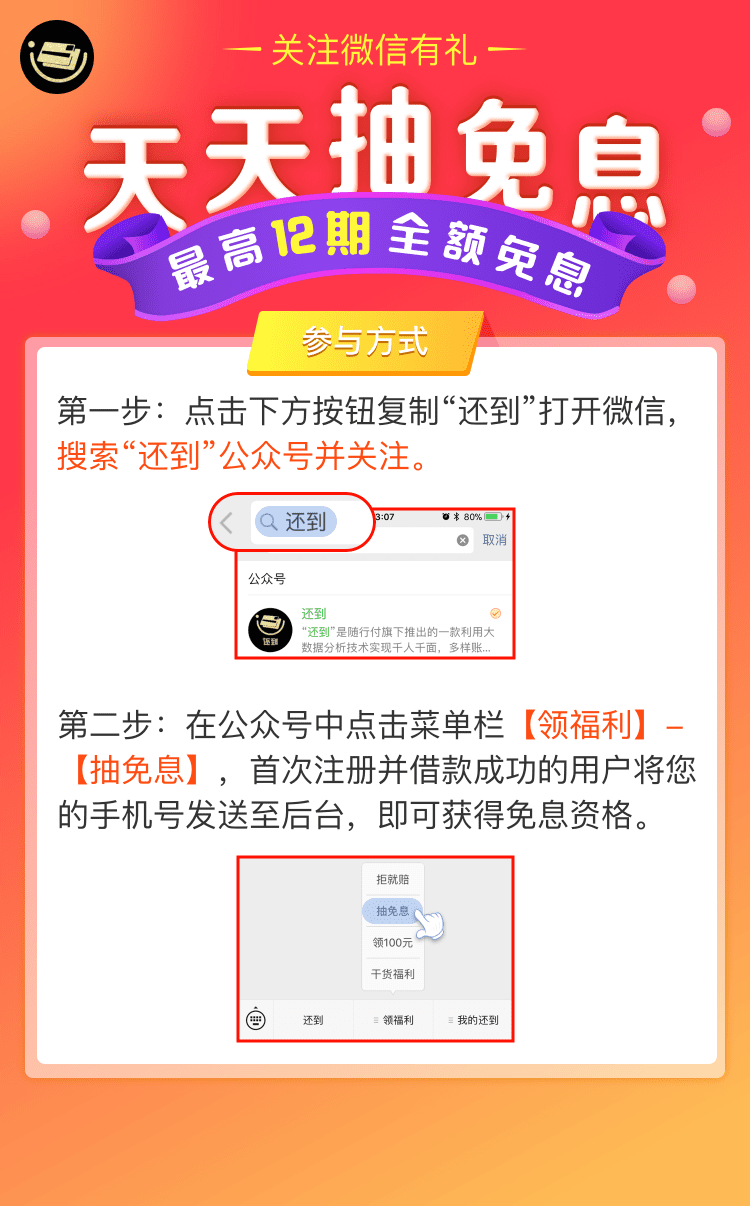
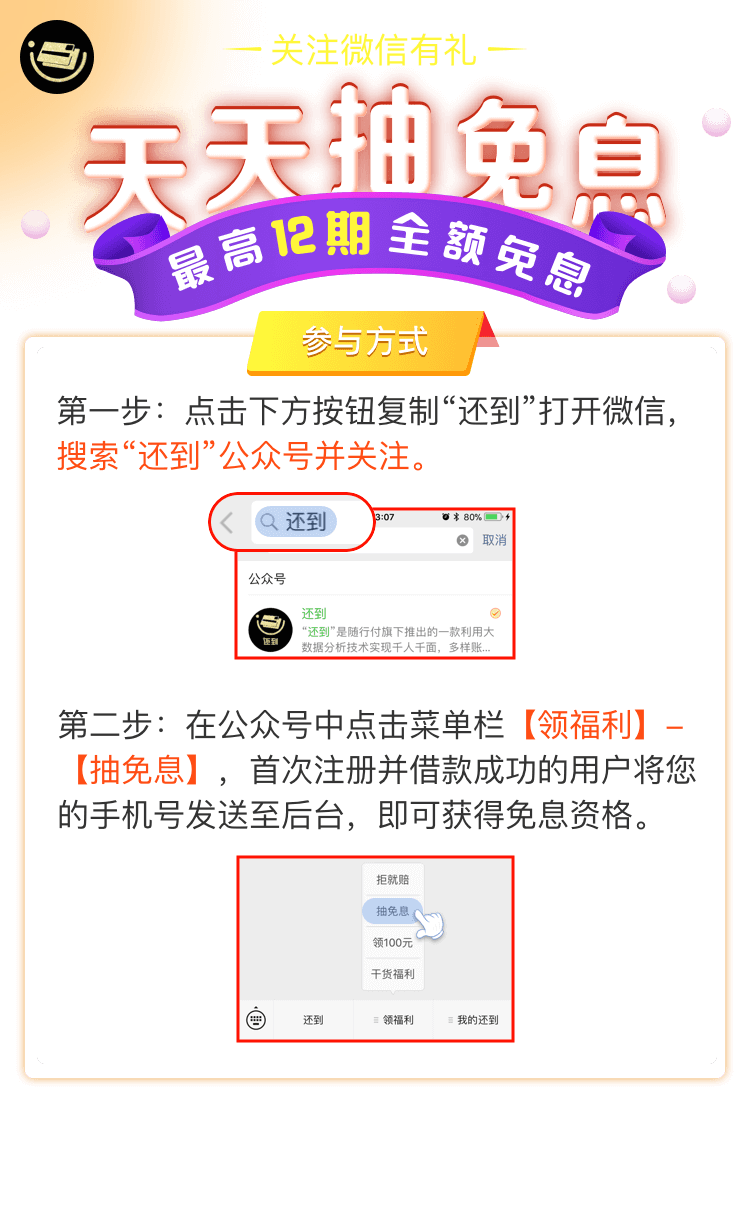
==

diff --git a/src/pages/mpos/mpos_ioscontrol_page/index.js b/src/pages/mpos/mpos_ioscontrol_page/index.js
@@ -1,8 +1,6 @@
 import React, { PureComponent } from 'react';
 import styles from './index.scss';
 import ioscontrol from './img/leadwx_bg.png';
-import ioscontrol_activity from './img/ioscontrol_activity.png';
-import ioscontrol_coupon_activity from './img/ioscontrol_coupon_activity.png';
 import btnBg from './img/copy_btn.png';
 import { store } from 'utils/store';
 import { CopyToClipboard } from 'react-copy-to-clipboard';
@@ -10,7 +8,7 @@ import { buriedPointEvent } from 'utils/analytins';
 import { mpos_ioscontrol_page } from 'utils/analytinsType';
 import { setBackGround } from 'utils/background';
 import qs from 'qs'
-// @setBackGround('red')
+@setBackGround('linear-gradient(139deg, #ff3749 0%, #feba55 84%)')
 export default class ioscontrol_page extends PureComponent {
 	constructor(props) {
 		super(props)

diff --git a/src/utils/background.js b/src/utils/background.js
@@ -4,7 +4,7 @@ export const setBackGround = (background) => (WrappedComponent) => {
   return class extends React.Component {
     componentDidMount() {
       this.originBodyColor = document.body.style.background
-      document.body.style.background = background
+      document.body.style.background = (background)
     }
 
     componentWillUnmount() {

diff --git a/src/pages/mpos/mpos_ioscontrol_page/index.scss b/src/pages/mpos/mpos_ioscontrol_page/index.scss
@@ -22,8 +22,7 @@
     }
   }
 .bgBox{
-  height: 100%;
-  background: linear-gradient(139deg, rgba(255, 55, 73, 1) 0%, rgba(254, 186, 85, 1) 84%);
+  // height: 100vh;
   .copyBtn{
     position: fixed;
     bottom: 0;
@@ -31,4 +30,3 @@
     width: 100%;
   }
 }
-  
